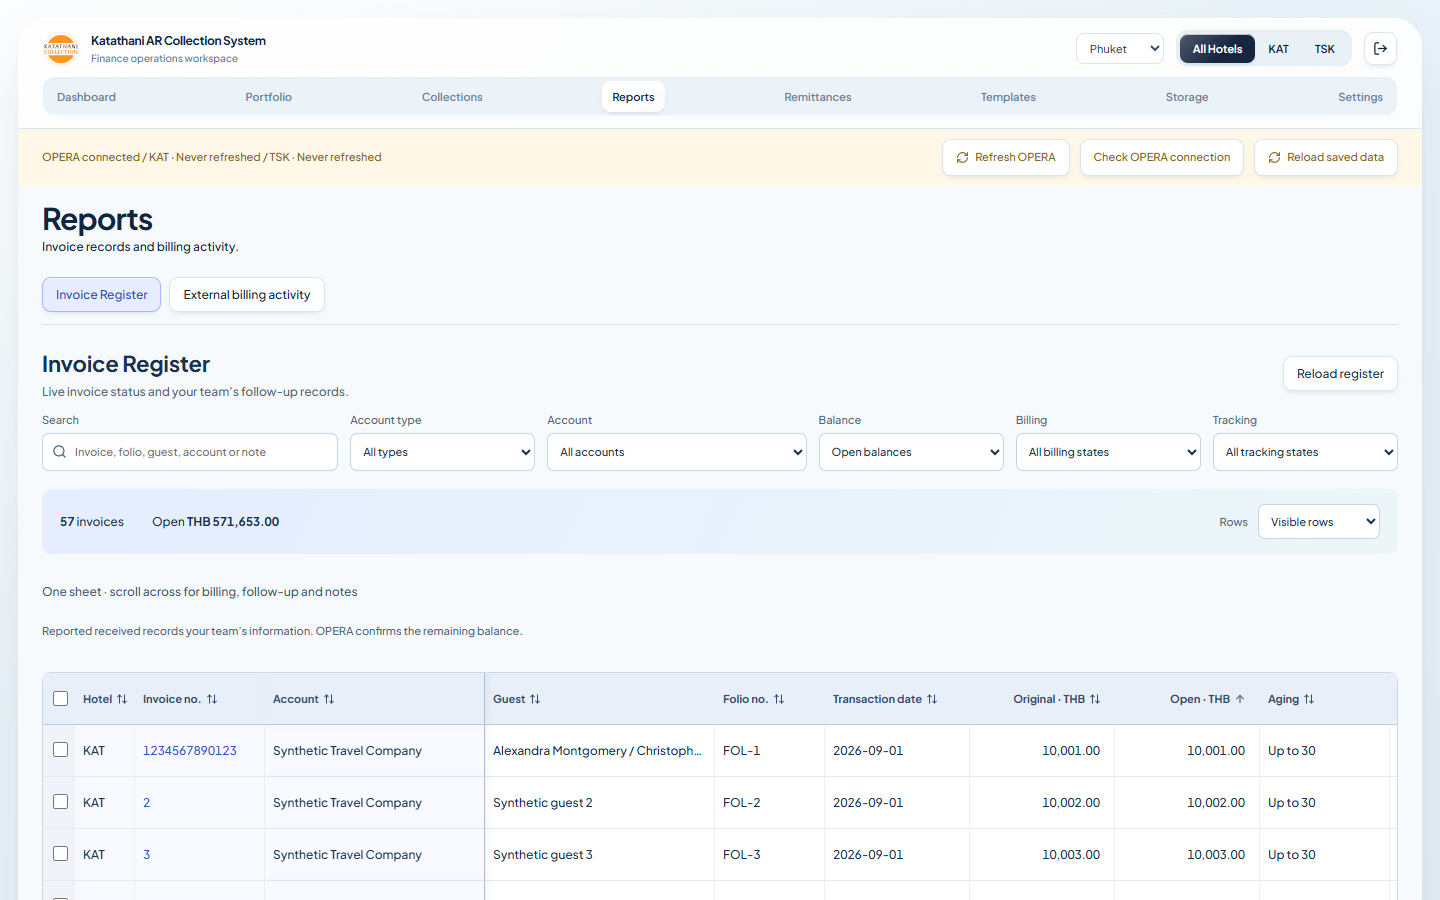
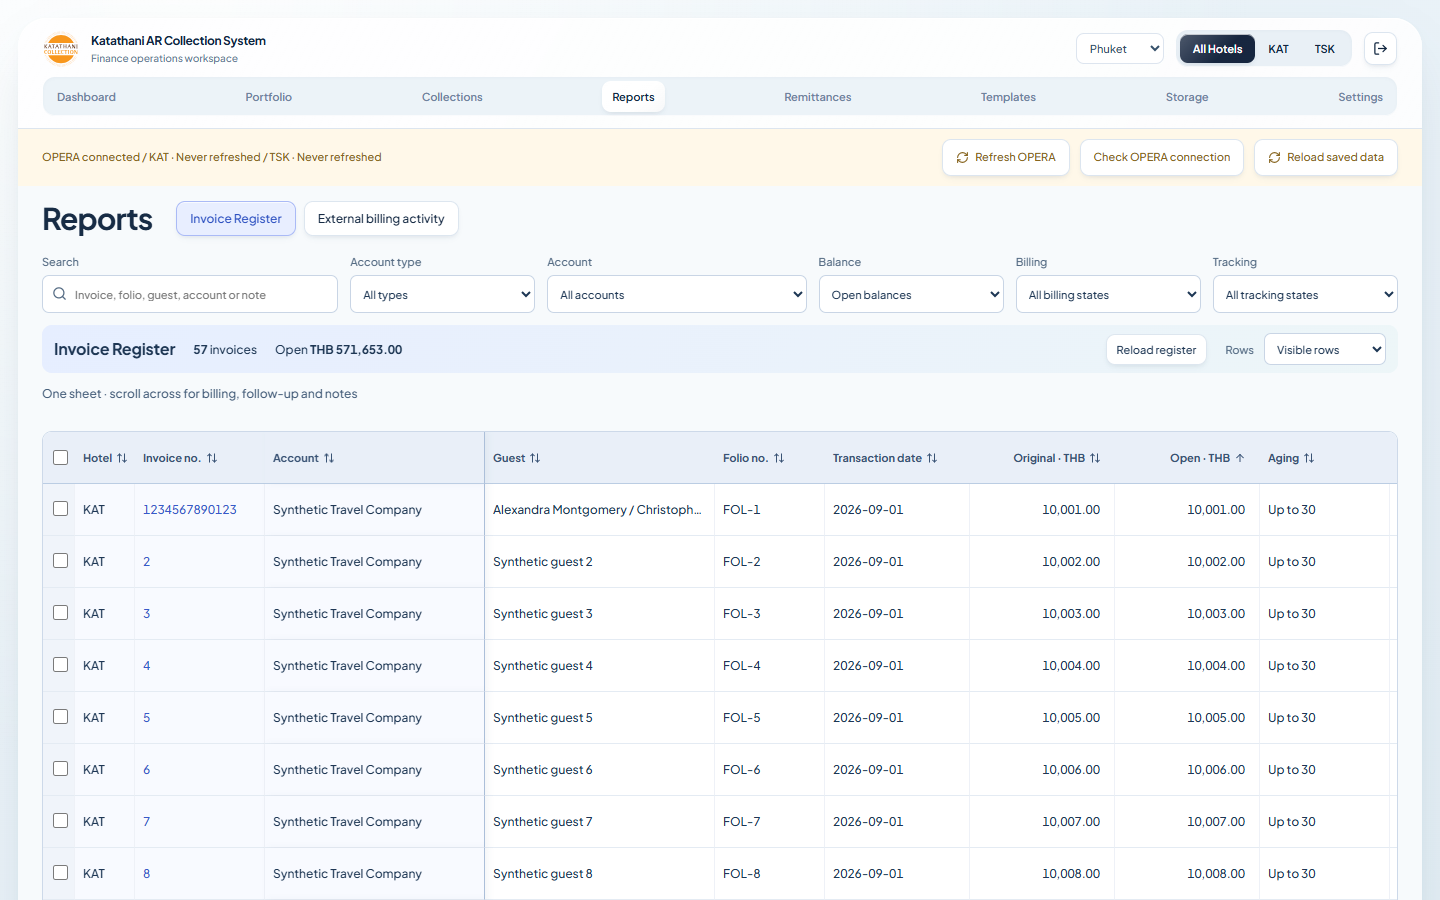
Keep invoice data above the fold in the continuous sheet

diff --git a/src/register/InvoiceRegister.tsx b/src/register/InvoiceRegister.tsx
@@ -65,20 +65,21 @@ const columns=sheetColumns;const invoiceWidth=Math.max(130,...(data?.rows??[]).m
  const virtual=visibleSheetRange(data?.rows.length??0,Math.max(0,scrollTop-44),viewportHeight,52,10),visibleRows=data?.rows.slice(virtual.start,virtual.end)??[];
  const tableWidth=130+columns.reduce((sum,c)=>sum+(c.key==='invoice_no'?invoiceWidth:sheetWidths[c.key]??140),0);
  const pinned=(key:RegisterSort)=>['hotel','invoice_no','account_name'].includes(key),pinLeft=(key:RegisterSort)=>key==='hotel'?32:key==='invoice_no'?92:key==='account_name'?92+invoiceWidth:undefined;
- return <section className="invoice-register" aria-label="Invoice register"><div className="register-intro"><div><h2>Invoice Register</h2><p>Live invoice status and your team’s follow-up records.</p></div><button disabled={dirty||busy||loading} onClick={()=>setRefresh(n=>n+1)}>Reload register</button></div>
+ return <section className="invoice-register" aria-label="Invoice register">
  <div className="register-filters"><label className="register-search"><span>Search</span><div><Search size={15}/><input aria-label="Search invoice register" value={search} onChange={e=>{setSearch(e.target.value);update('regSearch',e.target.value);update('regPage','');}} disabled={dirty||busy} placeholder="Invoice, folio, guest, account or note"/></div></label>
  <label>Account type<select aria-label="Register account type" value={get('Type')} disabled={dirty||busy} onChange={e=>changeFilter('Type',e.target.value)}><option value="">All types</option>{[...new Set(accounts.map(a=>a.type))].sort().map(t=><option key={t}>{t}</option>)}</select></label>
  <label>Account<select aria-label="Register account" value={accountChoice?accountKey:''} disabled={dirty||busy} onChange={e=>changeFilter('Account',e.target.value)}><option value="">All accounts</option>{accounts.filter(a=>(hotel==='All'||a.hotel===hotel)&&(!get('Type')||a.type===get('Type'))).map(a=><option key={a.hotel+a.id} value={JSON.stringify([a.hotel,a.id])}>{a.hotel} · {a.name}</option>)}</select></label>
  <label>Balance<select aria-label="Register balance" disabled={dirty||busy} value={get('Balance','open')} onChange={e=>changeFilter('Balance',e.target.value)}><option value="open">Open balances</option><option value="all">All saved invoices</option><option value="cleared">Verified zero balance</option><option value="credit">Credit balances</option></select></label>
  <label>Billing<select aria-label="Register billing filter" disabled={dirty||busy} value={get('Billing','all')} onChange={e=>changeFilter('Billing',e.target.value)}>{[['all','All billing states'],['required','Billing required'],['not_required','Not required'],['unconfigured','Not configured'],['unbilled','Not billed'],['billed','Billed']].map(([v,l])=><option key={v} value={v}>{l}</option>)}</select></label>
  <label>Tracking<select aria-label="Register tracking filter" disabled={dirty||busy} value={get('Tracking','all')} onChange={e=>changeFilter('Tracking',e.target.value)}><option value="all">All tracking states</option>{trackingStatuses.map(s=><option key={s} value={s}>{s||'Not started'}</option>)}</select></label></div>
- <div className="register-summary"><span><b>{data?.total.toLocaleString()??'—'}</b> invoices</span><span>Open <b>{data?money(data.summary.open,false):'—'}</b></span>{!!data?.summary.unverified&&<span>{data.summary.unverified} need source verification</span>}<label>Rows<select aria-label="Register row visibility" disabled={dirty||busy||loading} value={get('Visibility','visible')} onChange={e=>changeFilter('Visibility',e.target.value)}><option value="visible">Visible rows</option><option value="hidden">Hidden rows ({data?.hiddenTotal??0})</option><option value="all">All rows</option></select></label></div>
+ <div className="register-summary"><h2>Invoice Register</h2><span><b>{data?.total.toLocaleString()??'—'}</b> invoices</span><span>Open <b>{data?money(data.summary.open,false):'—'}</b></span>{!!data?.summary.unverified&&<span>{data.summary.unverified} need source verification</span>}<button disabled={dirty||busy||loading} onClick={()=>setRefresh(n=>n+1)}>Reload register</button><label>Rows<select aria-label="Register row visibility" disabled={dirty||busy||loading} value={get('Visibility','visible')} onChange={e=>changeFilter('Visibility',e.target.value)}><option value="visible">Visible rows</option><option value="hidden">Hidden rows ({data?.hiddenTotal??0})</option><option value="all">All rows</option></select></label></div>
  <div className="register-mobile-sort"><label>Sort by<select aria-label="Register sort column" disabled={dirty||busy||loading} value={sort} onChange={e=>{update('regSort',e.target.value);update('regPage','');}}>{columns.map(c=><option key={c.key} value={c.key}>{c.label}</option>)}</select></label><button disabled={dirty||busy||loading} onClick={()=>update('regDir',direction==='asc'?'desc':'asc')}>{direction==='asc'?'Ascending':'Descending'}</button></div><div className="register-tools"><span className="register-sheet-caption">One sheet · scroll across for billing, follow-up and notes</span><div>{selected.size>0&&<><span>{selected.size} selected</span><button disabled={dirty||busy||loading} onClick={()=>visibility(true)}><EyeOff size={14}/>Hide</button><button disabled={dirty||busy||loading} onClick={()=>visibility(false)}><Eye size={14}/>Show</button></>}</div></div>
- <p className="register-help">Reported received records your team’s information. OPERA confirms the remaining balance.</p>
+ 
  {error&&<p role="alert" className="register-error">{error}{pending&&<button disabled={busy} onClick={cancel}>Discard edits and reload</button>}{visibilityPending.current&&<><button disabled={busy} onClick={()=>visibility(visibilityPending.current!.hidden)}>Retry visibility</button><button disabled={busy} onClick={()=>{visibilityPending.current=null;setError('');setRefresh(n=>n+1);}}>Reload saved rows</button></>}</p>}{status&&<p role="status" className="register-status">{status}</p>}
  {editing&&<div className="register-editbar"><span>Editing invoice <b>{editing.invoice_no??editing.id}</b> · {editing.hotel}<small>Changes apply to this invoice. Account defaults stay unchanged.</small></span><button disabled={busy} onClick={cancel}>Cancel</button><button className="primary-button" disabled={busy} onClick={save}><Check size={15}/>{busy?'Saving…':pending?'Retry save':'Save row'}</button></div>}
  <div ref={horizontalScroll} style={{width:viewportWidth||undefined}} className="register-horizontal-scroll" role="region" aria-label="Sheet horizontal scroll" tabIndex={0} onScroll={e=>{if(sheetScroll.current&&sheetScroll.current.scrollLeft!==e.currentTarget.scrollLeft)sheetScroll.current.scrollLeft=e.currentTarget.scrollLeft;}}><div style={{width:tableWidth,height:1}}/></div><div ref={sheetScroll} className="register-table-shell register-sheet" role="region" aria-label="Invoice register sheet" tabIndex={0} aria-busy={loading} onScroll={e=>{setScrollTop(e.currentTarget.scrollTop);if(horizontalScroll.current&&horizontalScroll.current.scrollLeft!==e.currentTarget.scrollLeft)horizontalScroll.current.scrollLeft=e.currentTarget.scrollLeft;}}><table className="register-table" aria-rowcount={(data?.total??0)+1} style={{width:tableWidth}}><colgroup><col style={{width:32}}/>{columns.map(c=><col key={c.key} style={{width:c.key==='invoice_no'?invoiceWidth:c.width}}/>)}<col style={{width:98}}/></colgroup><thead><tr><th><input aria-label="Select all register rows" type="checkbox" disabled={dirty||busy||loading||!data?.rows.length} checked={!!data?.rows.length&&data.rows.every(r=>selected.has(rowKey(r)))} onChange={e=>setSelected(new Set(e.target.checked?data?.rows.map(rowKey):[]))}/></th>{columns.map(c=><th key={c.key} data-pinned={pinned(c.key)?c.key:undefined} style={{left:pinLeft(c.key)}} className={['open','original','reported_received'].includes(c.key)?'register-number-head':undefined} aria-sort={sort===c.key?direction==='asc'?'ascending':'descending':'none'}><button disabled={dirty||busy||loading} onClick={()=>{update('regSort',c.key);update('regDir',sort===c.key&&direction==='asc'?'desc':'asc');update('regPage','');}}>{c.label}{sort===c.key?direction==='asc'?<ArrowUp size={12}/>:<ArrowDown size={12}/>:<ArrowUpDown size={12}/>}</button></th>)}<th>Actions</th></tr></thead><tbody>{virtual.top>0&&<tr className="register-spacer" aria-hidden="true"><td colSpan={columns.length+2} style={{height:virtual.top}}/></tr>}{visibleRows.map((row,index)=>{const active=editing&&rowKey(editing)===rowKey(row);const account=accounts.find(a=>a.hotel===row.hotel&&a.id===row.account_id);return <tr key={rowKey(row)} data-invoice-row="true" aria-rowindex={virtual.start+index+2} className={active?'is-editing':row.hidden?'is-hidden':''}><td data-label="Select"><input type="checkbox" aria-label={`Select invoice ${row.hotel} ${row.invoice_no??row.id}`} disabled={dirty||busy||loading} checked={selected.has(rowKey(row))} onChange={e=>setSelected(old=>{const n=new Set(old);e.target.checked?n.add(rowKey(row)):n.delete(rowKey(row));return n;})}/></td>{columns.map(c=><td key={c.key} data-label={c.label} data-pinned={pinned(c.key)?c.key:undefined} style={{left:pinLeft(c.key)}} className={['open','original','reported_received'].includes(c.key)?'register-amount':undefined}>{active&&draft&&c.field?<RegisterInput field={c.field} autoFocus={c.field===focusField} values={draft} disabled={busy||!!pending} onChange={patch=>setDraft({...draft,...patch})}/>:c.key==='invoice_no'&&account?<button className="register-invoice-link" disabled={dirty||loading} onClick={()=>onOpen(account,row.id)}>{display(row,c)}</button>:c.field?<button className="register-cell" title={display(row,c)} disabled={dirty||busy||loading} onClick={()=>beginEdit(row,c.field)}>{display(row,c)}</button>:<span title={display(row,c)}>{display(row,c)}</span>}</td>)}<td data-label="Actions"><div className="register-row-actions"><button disabled={dirty||busy||loading} onClick={()=>beginEdit(row)} aria-label={`Edit invoice ${row.hotel} ${row.invoice_no??row.id}`}>Edit</button><button disabled={busy} aria-label={`History invoice ${row.hotel} ${row.invoice_no??row.id}`} onClick={()=>{setHistoryRow(row);setHistoryPage(0);}}><History size={15}/></button></div></td></tr>;})}{virtual.bottom>0&&<tr className="register-spacer" aria-hidden="true"><td colSpan={columns.length+2} style={{height:virtual.bottom}}/></tr>}</tbody></table>{!data?.rows.length&&<p className="register-empty">{loading?'Loading invoice register…':error?'Saved invoices are temporarily unavailable.':'No invoices match these filters.'}</p>}</div>
  <footer className="register-pagination"><span>{data?`${data.total.toLocaleString()} rows in this sheet`:'Loading sheet…'}</span><span aria-live="polite" aria-label="Sheet loading progress">{loading?`Loading ${loadProgress.loaded.toLocaleString()}${loadProgress.total?' / '+loadProgress.total.toLocaleString():''} rows…`:data?'All matching rows loaded':''}</span></footer>
+ <p className="register-help">Reported received records your team’s information. OPERA confirms the remaining balance.</p>
  {historyRow&&<section className="register-history" aria-label="Register edit history"><header><h3>Edit history · {historyRow.invoice_no??historyRow.id}</h3><button aria-label="Close register history" onClick={()=>setHistoryRow(null)}><X size={16}/></button></header>{historyError?<p role="alert">History is unavailable. Close and reopen to retry.</p>:!historyData?<p>Loading history…</p>:<>{!historyData.rows.length&&<p>No edits from the register yet. Billing and reminder history remains available in Invoice details.</p>}{historyData.rows.map(h=><article key={h.id}><b>{new Date(h.recorded_at).toLocaleString('en-GB',{timeZone:'Asia/Bangkok'})} ICT</b><span>{h.actor}</span><ul>{(Object.keys(fieldLabels) as (keyof RegisterValues)[]).filter(k=>h.before_value[k]!==h.after_value[k]).map(k=><li key={k}>{fieldLabels[k]}: {String(h.before_value[k]??'—')} → {String(h.after_value[k]??'—')}</li>)}</ul></article>)}<div><button disabled={!historyPage} onClick={()=>setHistoryPage(n=>n-1)}>Previous history</button><button disabled={(historyPage+1)*20>=historyData.total} onClick={()=>setHistoryPage(n=>n+1)}>Next history</button></div></>}</section>}
  </section>;
 }

diff --git a/src/register/sheet.css b/src/register/sheet.css
@@ -2,3 +2,5 @@
 @media(max-width:800px){.register-sheet{height:62vh;min-height:360px;border:1px solid #cbd8e8;background:#fff}.register-sheet .register-table td[data-pinned=hotel],.register-sheet .register-table td[data-pinned=account_name]{position:static!important;left:auto!important;box-shadow:none}.register-sheet .register-table th[data-pinned=hotel],.register-sheet .register-table th[data-pinned=account_name]{left:auto!important;z-index:3;box-shadow:none}.register-sheet .register-table [data-pinned=invoice_no]{left:32px!important}.register-sheet .register-table td>span,.register-sheet .register-table .register-cell{white-space:nowrap;overflow-wrap:normal}.register-sheet .register-table td:last-child{grid-column:auto}.register-sheet .register-table td.register-amount{text-align:right!important}.register-sheet .register-empty{max-width:calc(100vw - 60px)}.register-pagination{flex-wrap:wrap}}
 
 .register-horizontal-scroll{height:16px;overflow-x:scroll;overflow-y:hidden;scrollbar-color:#95a9c5 #edf2f8;scrollbar-width:thin;margin:4px 0 5px;overscroll-behavior-x:contain}.register-horizontal-scroll:focus-visible{outline:3px solid #6588eb;outline-offset:2px}
+.reports-only:has(.register-sheet){display:grid;grid-template-columns:auto minmax(0,1fr);align-items:center;column-gap:24px}.reports-only:has(.register-sheet)>.dashboard-title{margin:0 0 18px}.reports-only:has(.register-sheet)>.dashboard-title h1{font-size:24px;margin:0;line-height:1.3}.reports-only:has(.register-sheet)>.dashboard-title p{display:none}.reports-only:has(.register-sheet)>.reports-hub-tabs{margin:0 0 18px;padding:0;border:0;justify-self:start}.reports-only:has(.register-sheet)>.invoice-register{grid-column:1/-1}.invoice-register:has(.register-sheet) .register-filters{margin-bottom:12px}.invoice-register:has(.register-sheet) .register-summary{padding:8px 12px;gap:18px;margin-bottom:8px}.register-summary h2{font-size:16px;line-height:1.4;margin:0;white-space:nowrap}.register-summary>button{margin-left:auto;white-space:nowrap;font-size:11px;padding:8px 10px}.invoice-register:has(.register-sheet) .register-summary>label{margin-left:0}.invoice-register:has(.register-sheet) .register-summary select{padding:6px 8px;min-height:32px}.invoice-register:has(.register-sheet) .register-tools{min-height:24px;margin-bottom:5px}.invoice-register:has(.register-sheet)>.register-help{margin-top:4px}
+@media(max-width:800px){.reports-only:has(.register-sheet){display:block}.reports-only:has(.register-sheet)>.dashboard-title{margin-bottom:10px}.reports-only:has(.register-sheet)>.reports-hub-tabs{margin-bottom:14px}.invoice-register:has(.register-sheet) .register-summary{gap:8px 14px}.register-summary>button{margin-left:0}}

diff --git a/tests/browser/invoice-register.spec.ts b/tests/browser/invoice-register.spec.ts
@@ -58,3 +58,4 @@ test('hiding a whole sheet retries only the unconfirmed batch and can restore ev
  const {writes}=await setup(page,{count:230,visibilityAmbiguous:true});await page.goto('/?reports=1');await expect(page.getByText('All matching rows loaded',{exact:true})).toBeVisible();await page.getByLabel('Select all register rows',{exact:true}).check();await page.getByRole('button',{name:'Hide',exact:true}).click();await expect(page.getByRole('alert')).toContainText('could not be confirmed');await page.getByRole('button',{name:'Retry visibility',exact:true}).click();await expect(page.getByRole('status')).toContainText('230 rows hidden');expect(writes.map(w=>w.rows.length)).toEqual([100,100,100,30]);expect(writes[1].commandId).toBe(writes[2].commandId);
  await page.getByLabel('Register row visibility').selectOption('hidden');await expect(page.getByText('All matching rows loaded',{exact:true})).toBeVisible();await expect(page.locator('.register-table')).toHaveAttribute('aria-rowcount','231');await page.getByLabel('Select all register rows',{exact:true}).check();await page.getByRole('button',{name:'Show',exact:true}).click();await expect(page.getByRole('status')).toContainText('230 rows restored');
 });
+test('a laptop sees invoice rows immediately below compact report controls',async({page})=>{await setup(page);await page.setViewportSize({width:1280,height:720});await page.goto('/?reports=1');await expect(page.getByText('All matching rows loaded',{exact:true})).toBeVisible();const box=await page.getByRole('region',{name:'Invoice register sheet',exact:true}).boundingBox();expect(box!.y+44+3*52).toBeLessThanOrEqual(720);await expect(page.getByRole('button',{name:'1234567890123',exact:true})).toBeInViewport();await page.screenshot({path:'evidence/register-sheet-laptop-720.png',fullPage:false});});
